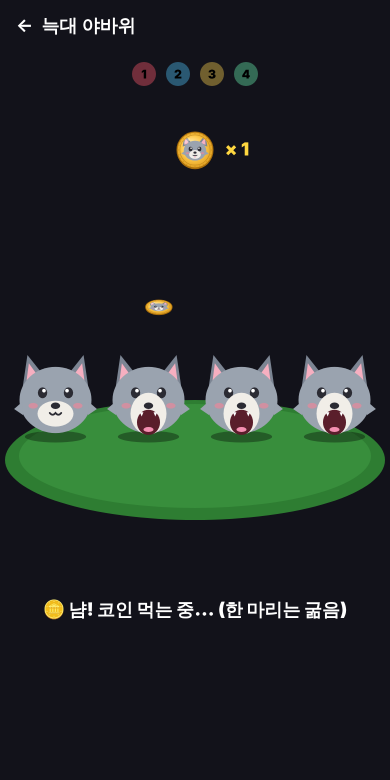
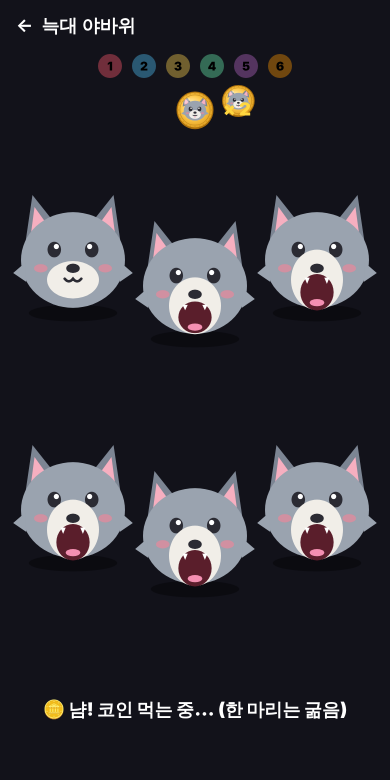
늑대 야바위 시안: 6명 · 화면 넓게 (테이블 없음)
Claude-Session: https://claude.ai/code/session_013mN1tc9XfbmBn9GeSidaFd

diff --git a/docs/samples/yabawi/play.html b/docs/samples/yabawi/play.html
@@ -36,8 +36,12 @@ function yWolf(x, y, r, open, mood = 0, t = 0) {
   c.restore();
 }
 // --- 장면 ---
-const N = 4, EMPTY = 2, R = 36, Y = 400;
-const slotX = (k) => W / 2 + (k - (N - 1) / 2) * 93;
+const N = +(new URLSearchParams(location.search).get('n') || 6), EMPTY = N > 3 ? 4 % N : 1, R = N <= 2 ? 64 : N <= 4 ? 58 : 52;
+// 자리: 1~3명 한 줄, 4명 2×2, 5명 3+2, 6명 3×2 — 화면 위아래 넓게
+const ROWS = N <= 3 ? [N] : N === 4 ? [2, 2] : [3, N - 3];
+const SLOT = []; ROWS.forEach((cnt, r) => { const y = ROWS.length === 1 ? 400 : 260 + r * 250; for (let i = 0; i < cnt; i++) SLOT.push({ x: W / 2 + (i - (cnt - 1) / 2) * (cnt === 3 ? 122 : 150), y: y + (cnt === 3 && i === 1 ? 26 : 0) }); });
+const slotX = (k) => SLOT[k].x, slotY = (k) => SLOT[k].y;
+const EAT = [...Array(N).keys()].filter((k) => k !== EMPTY), STEP = 1.6 / Math.max(1, EAT.length);
 // 섞기 순서 (고정): [a, b, 걸리는 시간]
 const SW = []; { let s = 7, d = 0.62; const rnd = () => ((s = (s * 16807) % 2147483647) / 2147483647); while (d > 0.1) { let a = Math.floor(rnd() * N), b = Math.floor(rnd() * (N - 1)); if (b >= a) b++; SW.push([a, b, d]); d *= 0.88; } for (let k = 0; k < 6; k++) { let a = Math.floor(rnd() * N), b = Math.floor(rnd() * (N - 1)); if (b >= a) b++; SW.push([a, b, 0.1]); } }
 const SH0 = 3.0, SHT = SW.reduce((a, s) => a + s[2], 0), SH1 = SH0 + SHT;
@@ -46,35 +50,38 @@ function slots(t) { // 늑대 k → (x, y)
   for (const [a, b, d] of SW) {
     if (t < tt) break;
     const wa = pos.indexOf(a), wb = pos.indexOf(b);
-    if (t < tt + d) { const u = ease((t - tt) / d), out = pos.map((sl) => ({ x: slotX(sl), y: Y })); out[wa] = { x: slotX(a) + (slotX(b) - slotX(a)) * u, y: Y - Math.sin(u * Math.PI) * 46 }; out[wb] = { x: slotX(b) + (slotX(a) - slotX(b)) * u, y: Y + Math.sin(u * Math.PI) * 46 }; return { out, fast: d < 0.2 }; }
+    if (t < tt + d) {
+      const u = ease((t - tt) / d), out = pos.map((sl) => ({ x: slotX(sl), y: slotY(sl) }));
+      const ax = slotX(a), ay = slotY(a), bx = slotX(b), by = slotY(b), dx = bx - ax, dy = by - ay, L = Math.hypot(dx, dy) || 1, nx = -dy / L * 60, ny = dx / L * 60, sn = Math.sin(u * Math.PI);
+      out[wa] = { x: ax + dx * u + nx * sn, y: ay + dy * u + ny * sn }; out[wb] = { x: bx - dx * u - nx * sn, y: by - dy * u - ny * sn };
+      return { out, fast: d < 0.2 };
+    }
     pos[wa] = b; pos[wb] = a; tt += d;
   }
-  return { out: pos.map((sl) => ({ x: slotX(sl), y: Y })), fast: false, pos };
+  return { out: pos.map((sl) => ({ x: slotX(sl), y: slotY(sl) })), fast: false, pos };
 }
-const PICK1 = 0, PICK2 = EMPTY; // 1번 사람은 코인 늑대, 2번 사람은 빈 늑대를 고름
+const PICK1 = EAT[0], PICK2 = EMPTY; // 1번 사람은 코인 늑대, 2번 사람은 빈 늑대를 고름
 window.frame = (t) => {
   const L = SH1 + 5.2; t %= L;
   c.fillStyle = '#12121A'; c.fillRect(0, 0, W, H);
   T('←  늑대 야바위', 76, 26, 18, '#fff', 700);
-  // 테이블
-  c.beginPath(); c.ellipse(W / 2, Y + 60, 190, 60, 0, 0, 7); c.fillStyle = '#2E7D32'; c.fill(); c.beginPath(); c.ellipse(W / 2, Y + 56, 176, 52, 0, 0, 7); c.fillStyle = '#388E3C'; c.fill();
   const { out, fast } = slots(t);
   let msg = '', msgC = '#fff';
   // 1) 입 벌리기 · 코인 먹기
-  const eatAt = (k) => 0.7 + [0, 1, 3].indexOf(k) * 0.55; // 코인 먹는 늑대 0 · 1 · 3 (2번 늑대는 못 먹음)
+  const eatAt = (k) => 0.6 + EAT.indexOf(k) * STEP; // 한 마리(EMPTY)만 빼고 차례로 코인 먹기
   for (let k = 0; k < N; k++) {
     let open = 0, mood = 0;
     const p = out[k];
     if (t < SH0) {
       open = Math.min(1, t / 0.5);
       if (k !== EMPTY && t > eatAt(k) + 0.45) open = Math.max(0, 1 - (t - eatAt(k) - 0.45) / 0.2);
-      if (t > 2.4) open = Math.max(0, open - (t - 2.4) / 0.3);
+      if (t > 2.5) open = Math.max(0, open - (t - 2.5) / 0.3);
     }
     // 4) 고르기 → 입 벌리기
     const P1 = SH1 + 1.3, P2 = SH1 + 3.0;
     if (t > P1 && k === PICK1) { open = Math.min(1, (t - P1) / 0.25); mood = 1; }
     if (t > P2 && k === PICK2) { open = Math.min(1, (t - P2) / 0.25); mood = -1; }
-    if (fast && t >= SH0 && t < SH1) { c.globalAlpha = 0.25; yWolf(p.x + (Math.random() - 0.5) * 14, p.y, R, 0); c.globalAlpha = 1; }
+    if (fast && t >= SH0 && t < SH1) { c.globalAlpha = 0.25; yWolf(p.x + (Math.random() - 0.5) * 16, p.y + (Math.random() - 0.5) * 16, R, 0); c.globalAlpha = 1; }
     const bob = t > SH1 ? Math.sin(t * 5 + k) * 3 : 0;
     yWolf(p.x, p.y + bob, R, open, mood, t);
     // 입 안 코인
@@ -83,22 +90,22 @@ window.frame = (t) => {
     if (t > P2 && k === PICK2 && t > P2 + 0.3) T('💀', p.x, p.y - R * 1.75, 28, '#fff');
   }
   // 날아가는 코인
-  for (const k of [0, 1, 3]) {
+  for (const k of EAT) {
     const u = (t - eatAt(k)) / 0.45; if (u < 0 || u > 1 || t > SH0) continue;
-    const x0 = W / 2, y0 = 150, x1 = slotX(k), y1 = Y + R * 0.5;
+    const x0 = W / 2, y0 = 110, x1 = slotX(k), y1 = slotY(k) + R * 0.5;
     coin(c, x0 + (x1 - x0) * u, y0 + (y1 - y0) * u - Math.sin(u * Math.PI) * 80, 18 - 6 * u, 1, 1 - Math.abs(Math.sin(u * 9)) * 0.7);
   }
-  if (t < 0.7 + 3 * 0.55) { coin(c, W / 2, 150, 18, 1); T('× ' + (3 - Math.max(0, Math.min(3, Math.floor((t - 0.7) / 0.55) + (t > 0.7 ? 1 : 0)))), W / 2 + 42, 150, 18, '#FFD740'); }
+  if (t < 0.6 + EAT.length * STEP) { const left = EAT.length - Math.max(0, Math.min(EAT.length, Math.floor((t - 0.6) / STEP) + (t > 0.6 ? 1 : 0))); coin(c, W / 2, 110, 18, 1); T('× ' + left, W / 2 + 42, 110, 18, '#FFD740'); }
   // 안내
   if (t < SH0) msg = '🪙 냠! 코인 먹는 중… (한 마리는 굶음)';
   else if (t < SH1) msg = '🔀 섞는 중…'; else if (t < SH1 + 1.3) msg = '👆 1번 사람, 늑대를 골라요!';
   else if (t < SH1 + 3.0) { msg = '🪙 코인! 1번 통과 ✅'; msgC = '#69F0AE'; } else { msg = '💀 빈 입! 2번 원샷!'; msgC = '#FF5A6E'; }
-  T(msg, W / 2, 610, 18, msgC);
+  T(msg, W / 2, H - 70, 18, msgC);
   // 손가락
   const P1 = SH1 + 1.3, P2 = SH1 + 3.0;
   for (const [tp, k] of [[P1, PICK1], [P2, PICK2]]) { const u = (tp - t) / 0.5; if (u >= 0 && u < 1) T('👆', out[k].x + 8, out[k].y + R * 1.6 + u * 40, 40, '#fff'); }
   // 사람 점
-  for (let i = 0; i < N; i++) { const x = W / 2 + (i - (N - 1) / 2) * 34; c.beginPath(); c.arc(x, 74, 12, 0, 7); c.fillStyle = ['#FF5A6E', '#4FC3F7', '#FFD54F', '#69F0AE'][i]; c.globalAlpha = (t > SH1 && ((t < P2 && i === 0) || (t >= P2 && i === 1))) ? 1 : 0.4; c.fill(); c.globalAlpha = 1; T(String(i + 1), x, 75, 12, '#000'); }
+  for (let i = 0; i < N; i++) { const x = W / 2 + (i - (N - 1) / 2) * 34; c.beginPath(); c.arc(x, 66, 12, 0, 7); c.fillStyle = ['#FF5A6E', '#4FC3F7', '#FFD54F', '#69F0AE', '#BA68C8', '#FF9800'][i]; c.globalAlpha = (t > SH1 && ((t < P2 && i === 0) || (t >= P2 && i === 1))) ? 1 : 0.4; c.fill(); c.globalAlpha = 1; T(String(i + 1), x, 67, 12, '#000'); }
 };
 window.LOOP = SH1 + 5.2;
 let t0 = performance.now(); const loop = () => { frame((performance.now() - t0) / 1000); requestAnimationFrame(loop); };

diff --git a/docs/BACKLOG.md b/docs/BACKLOG.md
@@ -378,6 +378,7 @@
 ## 🐺 [🍀 운빨게임] 늑대 야바위 (2026-11-04 메모 · 같은 날 컵 → 늑대로 변경, 시안 `docs/samples/yabawi/` — `yabawi.gif`)
 - 인원 **1~6명** 고르기. 늑대 수는 인원수에 맞춤 (1명일 때는 늑대 2마리)
 - 컵 대신 **늑대**를 고르는 방식 (2026-11-04 사용자 요청)
+- 배치: 테이블 없이 **화면 위아래를 넓게** — 1~3마리 한 줄 · 4마리 2×2 · 5마리 3+2 · 6마리 3×2, 섞을 땐 위아래 줄끼리도 엇갈려 바뀜 (2026-11-04 사용자 요청)
 - 시작하면 늑대들이 **입을 쩍 벌리고**, 늑대코인이 하나씩 날아가서 입에 쏙 — **한 마리만 빼고** 다 먹음 (못 먹은 늑대가 딱 하나)
 - 입을 꼭 다문 늑대들이 자리를 바꾸며 섞이고, 섞는 속도는 점점 빨라져서 마지막엔 **눈으로 못 따라가게**
 - 다 섞이면 한 사람씩 늑대를 하나 골라서 → 늑대가 입을 벌림: 🪙 코인 나오면 통과, **빈 입(코인 못 먹은 늑대) 고른 사람이 원샷** 🍺
